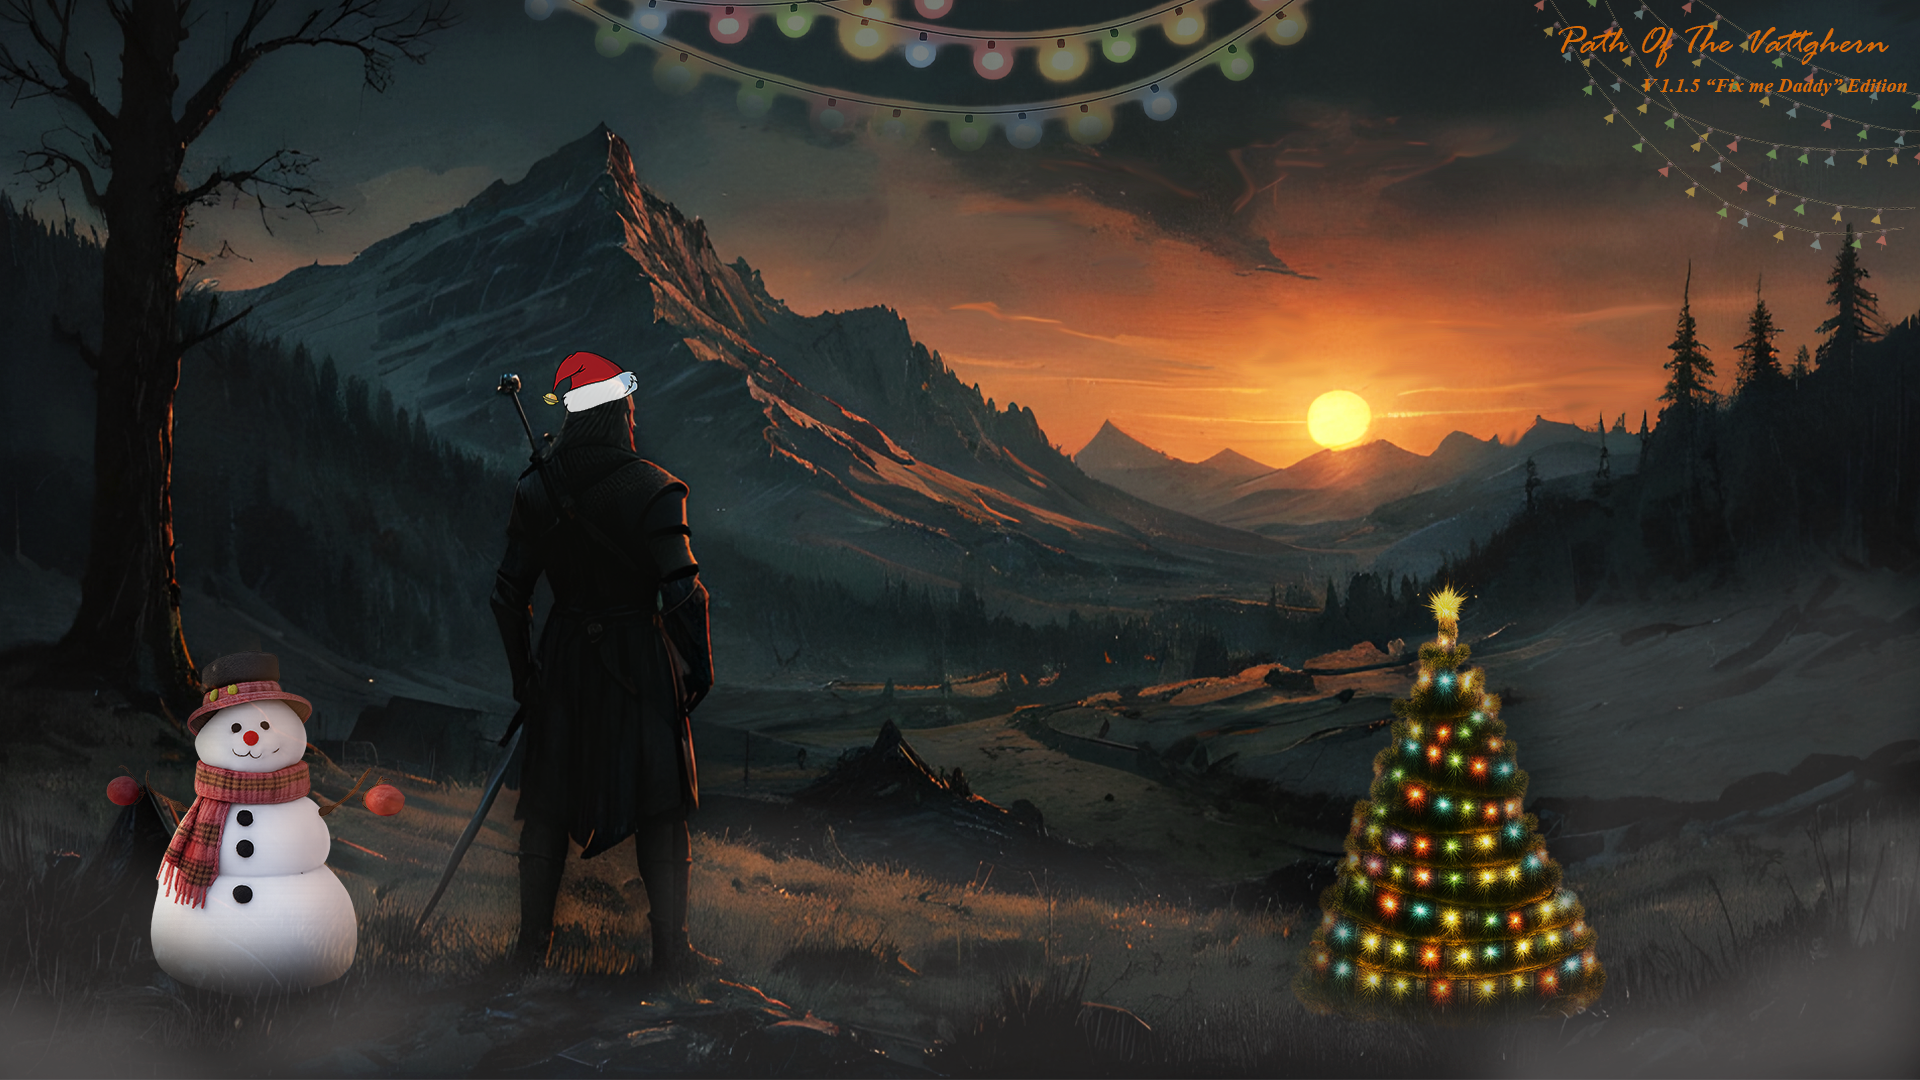
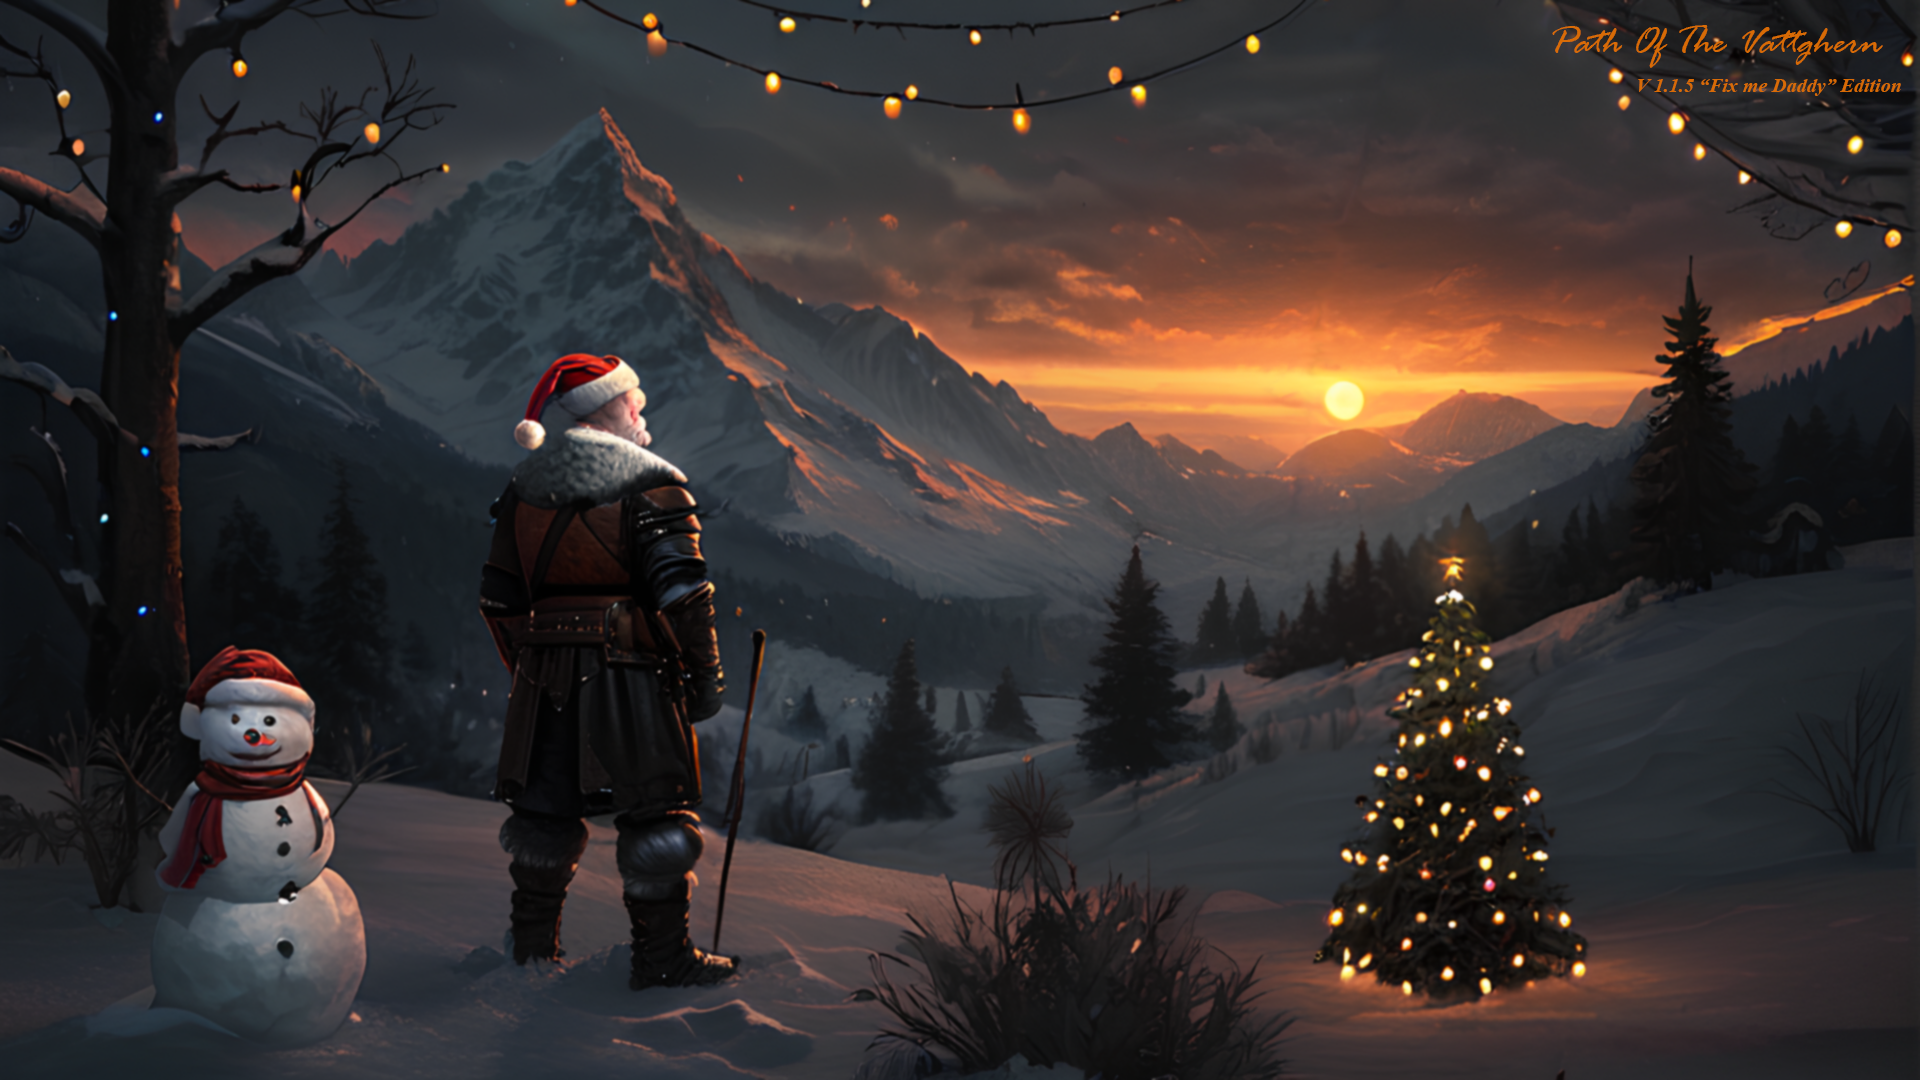
1.1.6
another xmas update

diff --git a/CHANGELOG.md b/CHANGELOG.md
@@ -1,4 +1,8 @@
-# v1.1.5 "Fix me Daddy" Edition
+# v1.1.6 "Fix me Daddy" Edition
+
+## Changelog V1.1.6 "Fix me Daddy" Edition:
+
+* Improved the main menu screen xmas art!
 
 ## Changelog V1.1.5 "Fix me Daddy" Edition:
 
